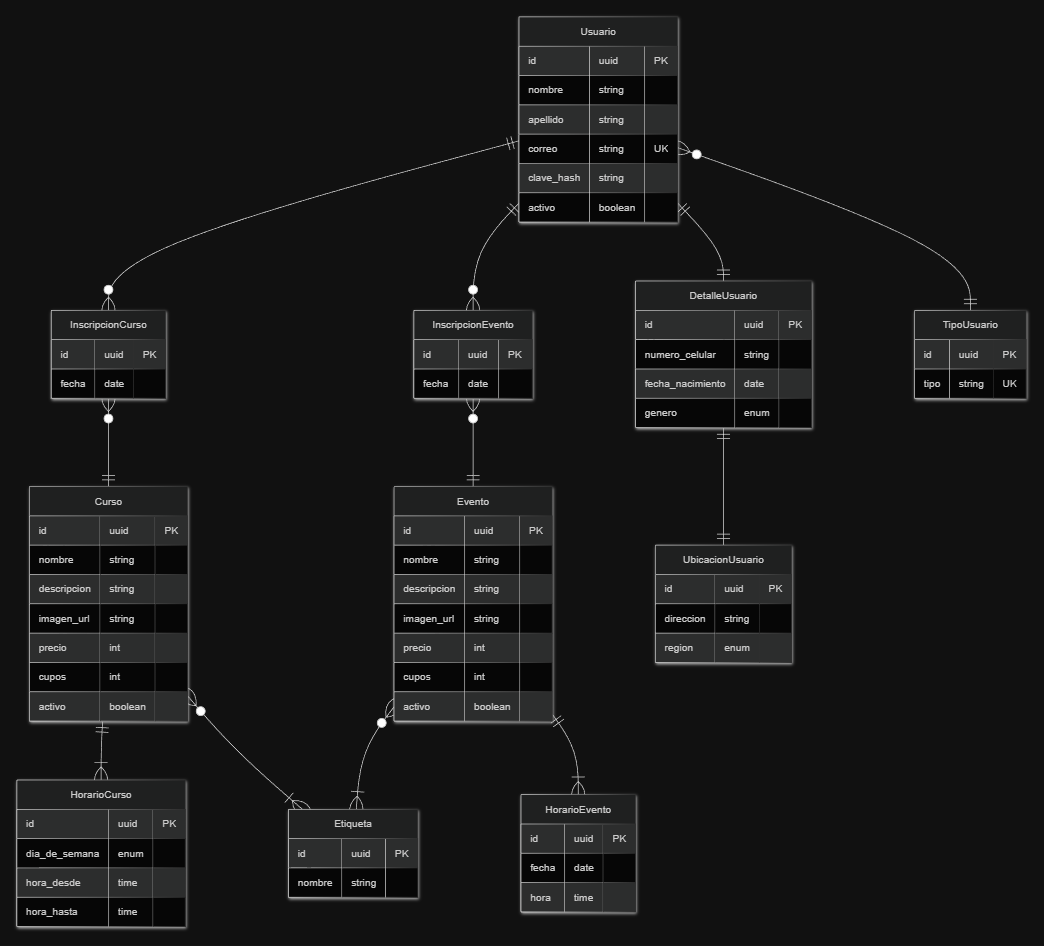
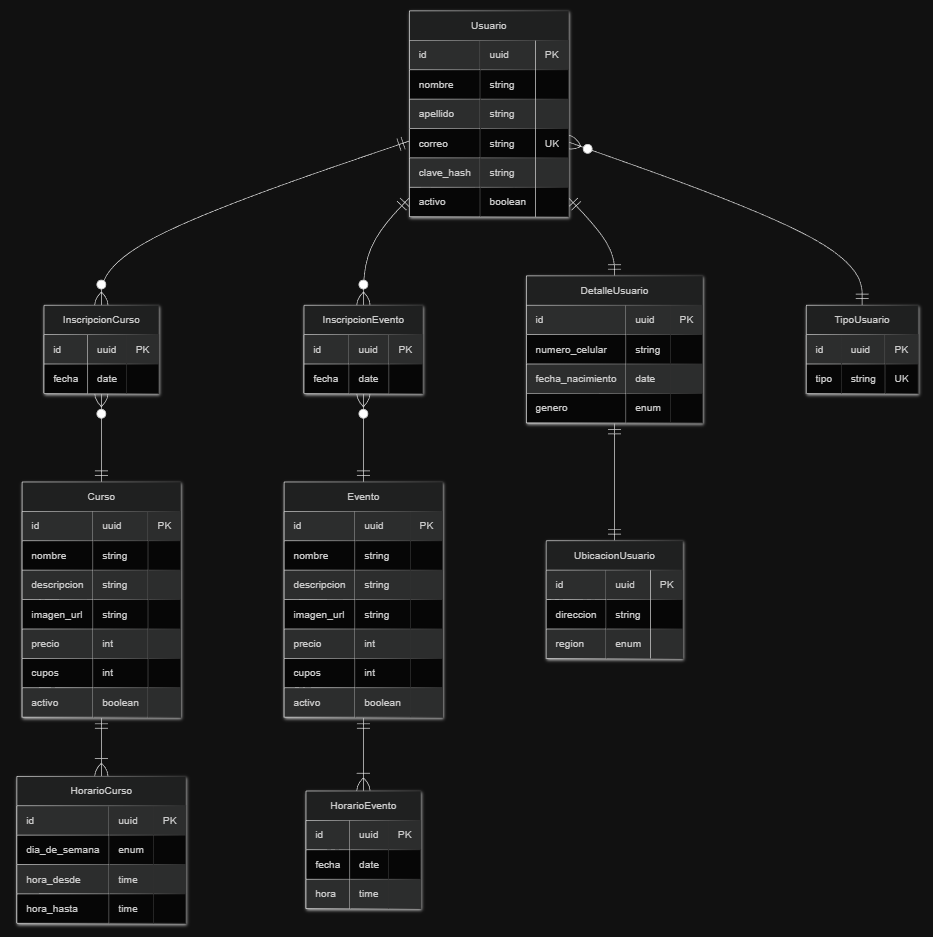
Elimina entidad 'etiqueta' de MER

diff --git a/Documentación/Diagamas/MER.mermaid.md b/Documentación/Diagamas/MER.mermaid.md
@@ -82,16 +82,9 @@ erDiagram
 		hora time
 	}
 	
-	Etiqueta {
-		id uuid PK
-		nombre string
-	}
-	
 	Curso ||--|{ HorarioCurso : ""
 	Evento ||--|{ HorarioEvento : ""
 	Usuario }o--|| TipoUsuario : ""
 	Usuario ||--|| DetalleUsuario : ""
 	DetalleUsuario ||--|| UbicacionUsuario : ""
-	Curso }o--|{ Etiqueta : ""
-	Evento }o--|{ Etiqueta : ""
 ```
